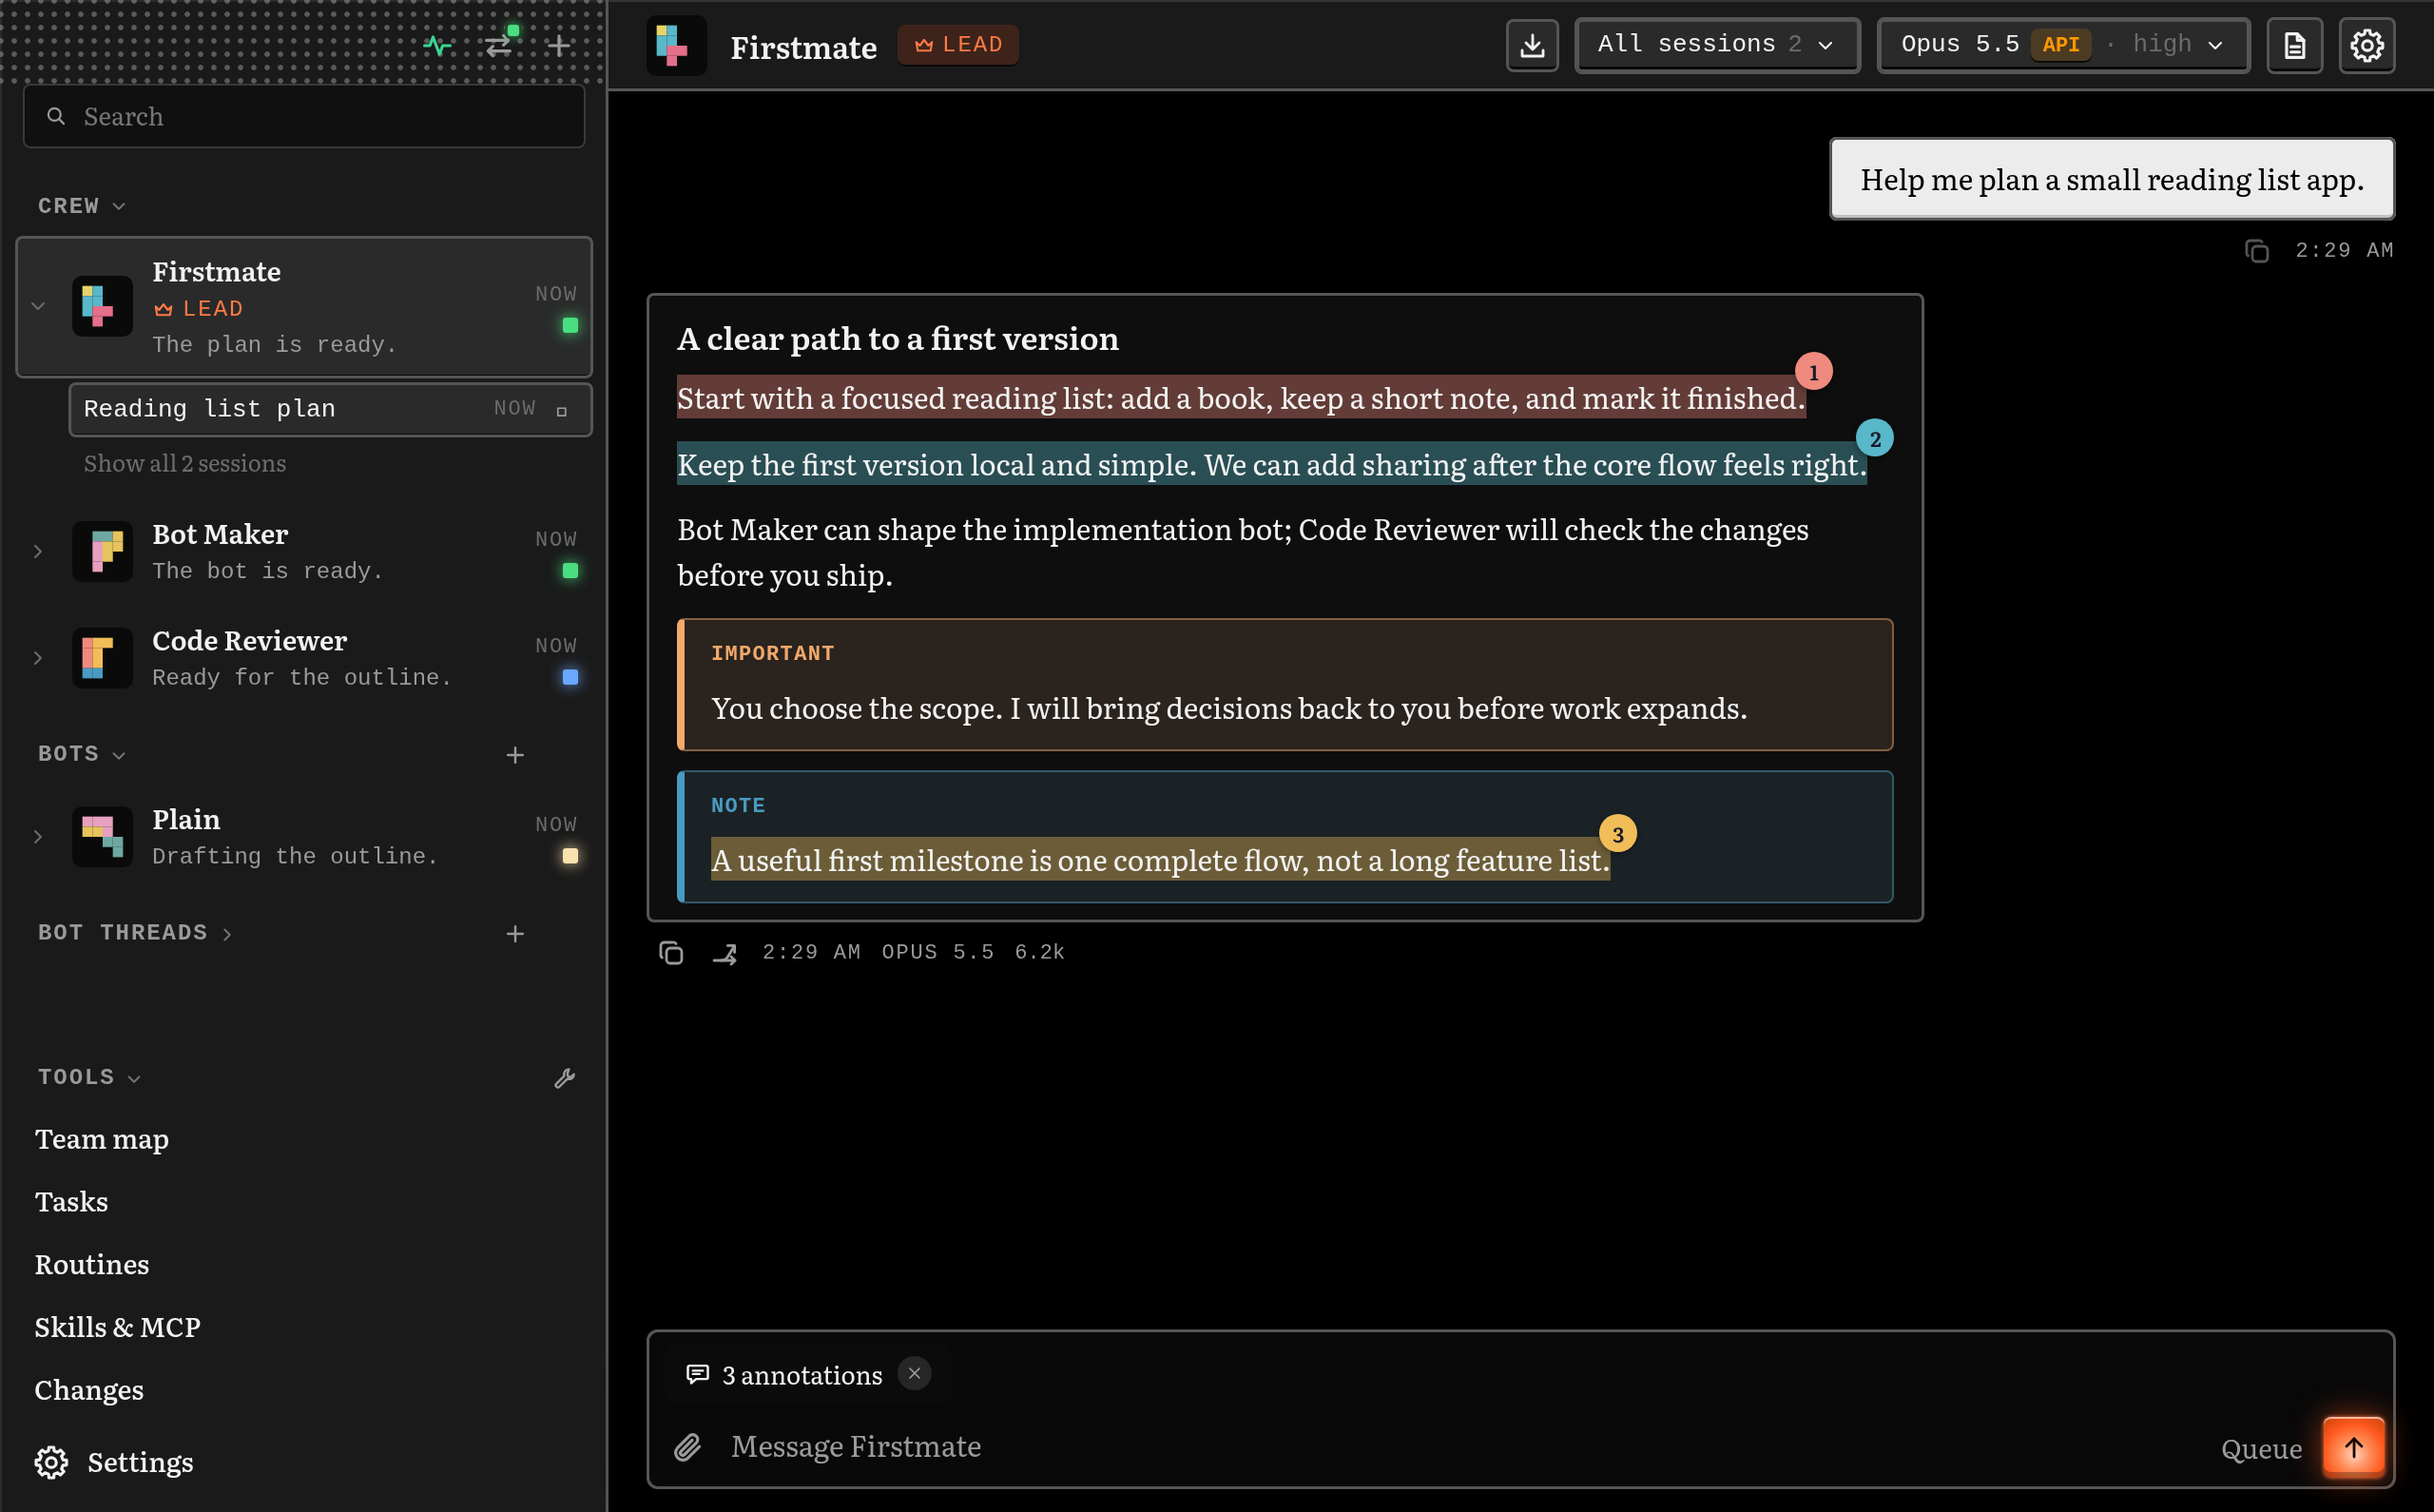
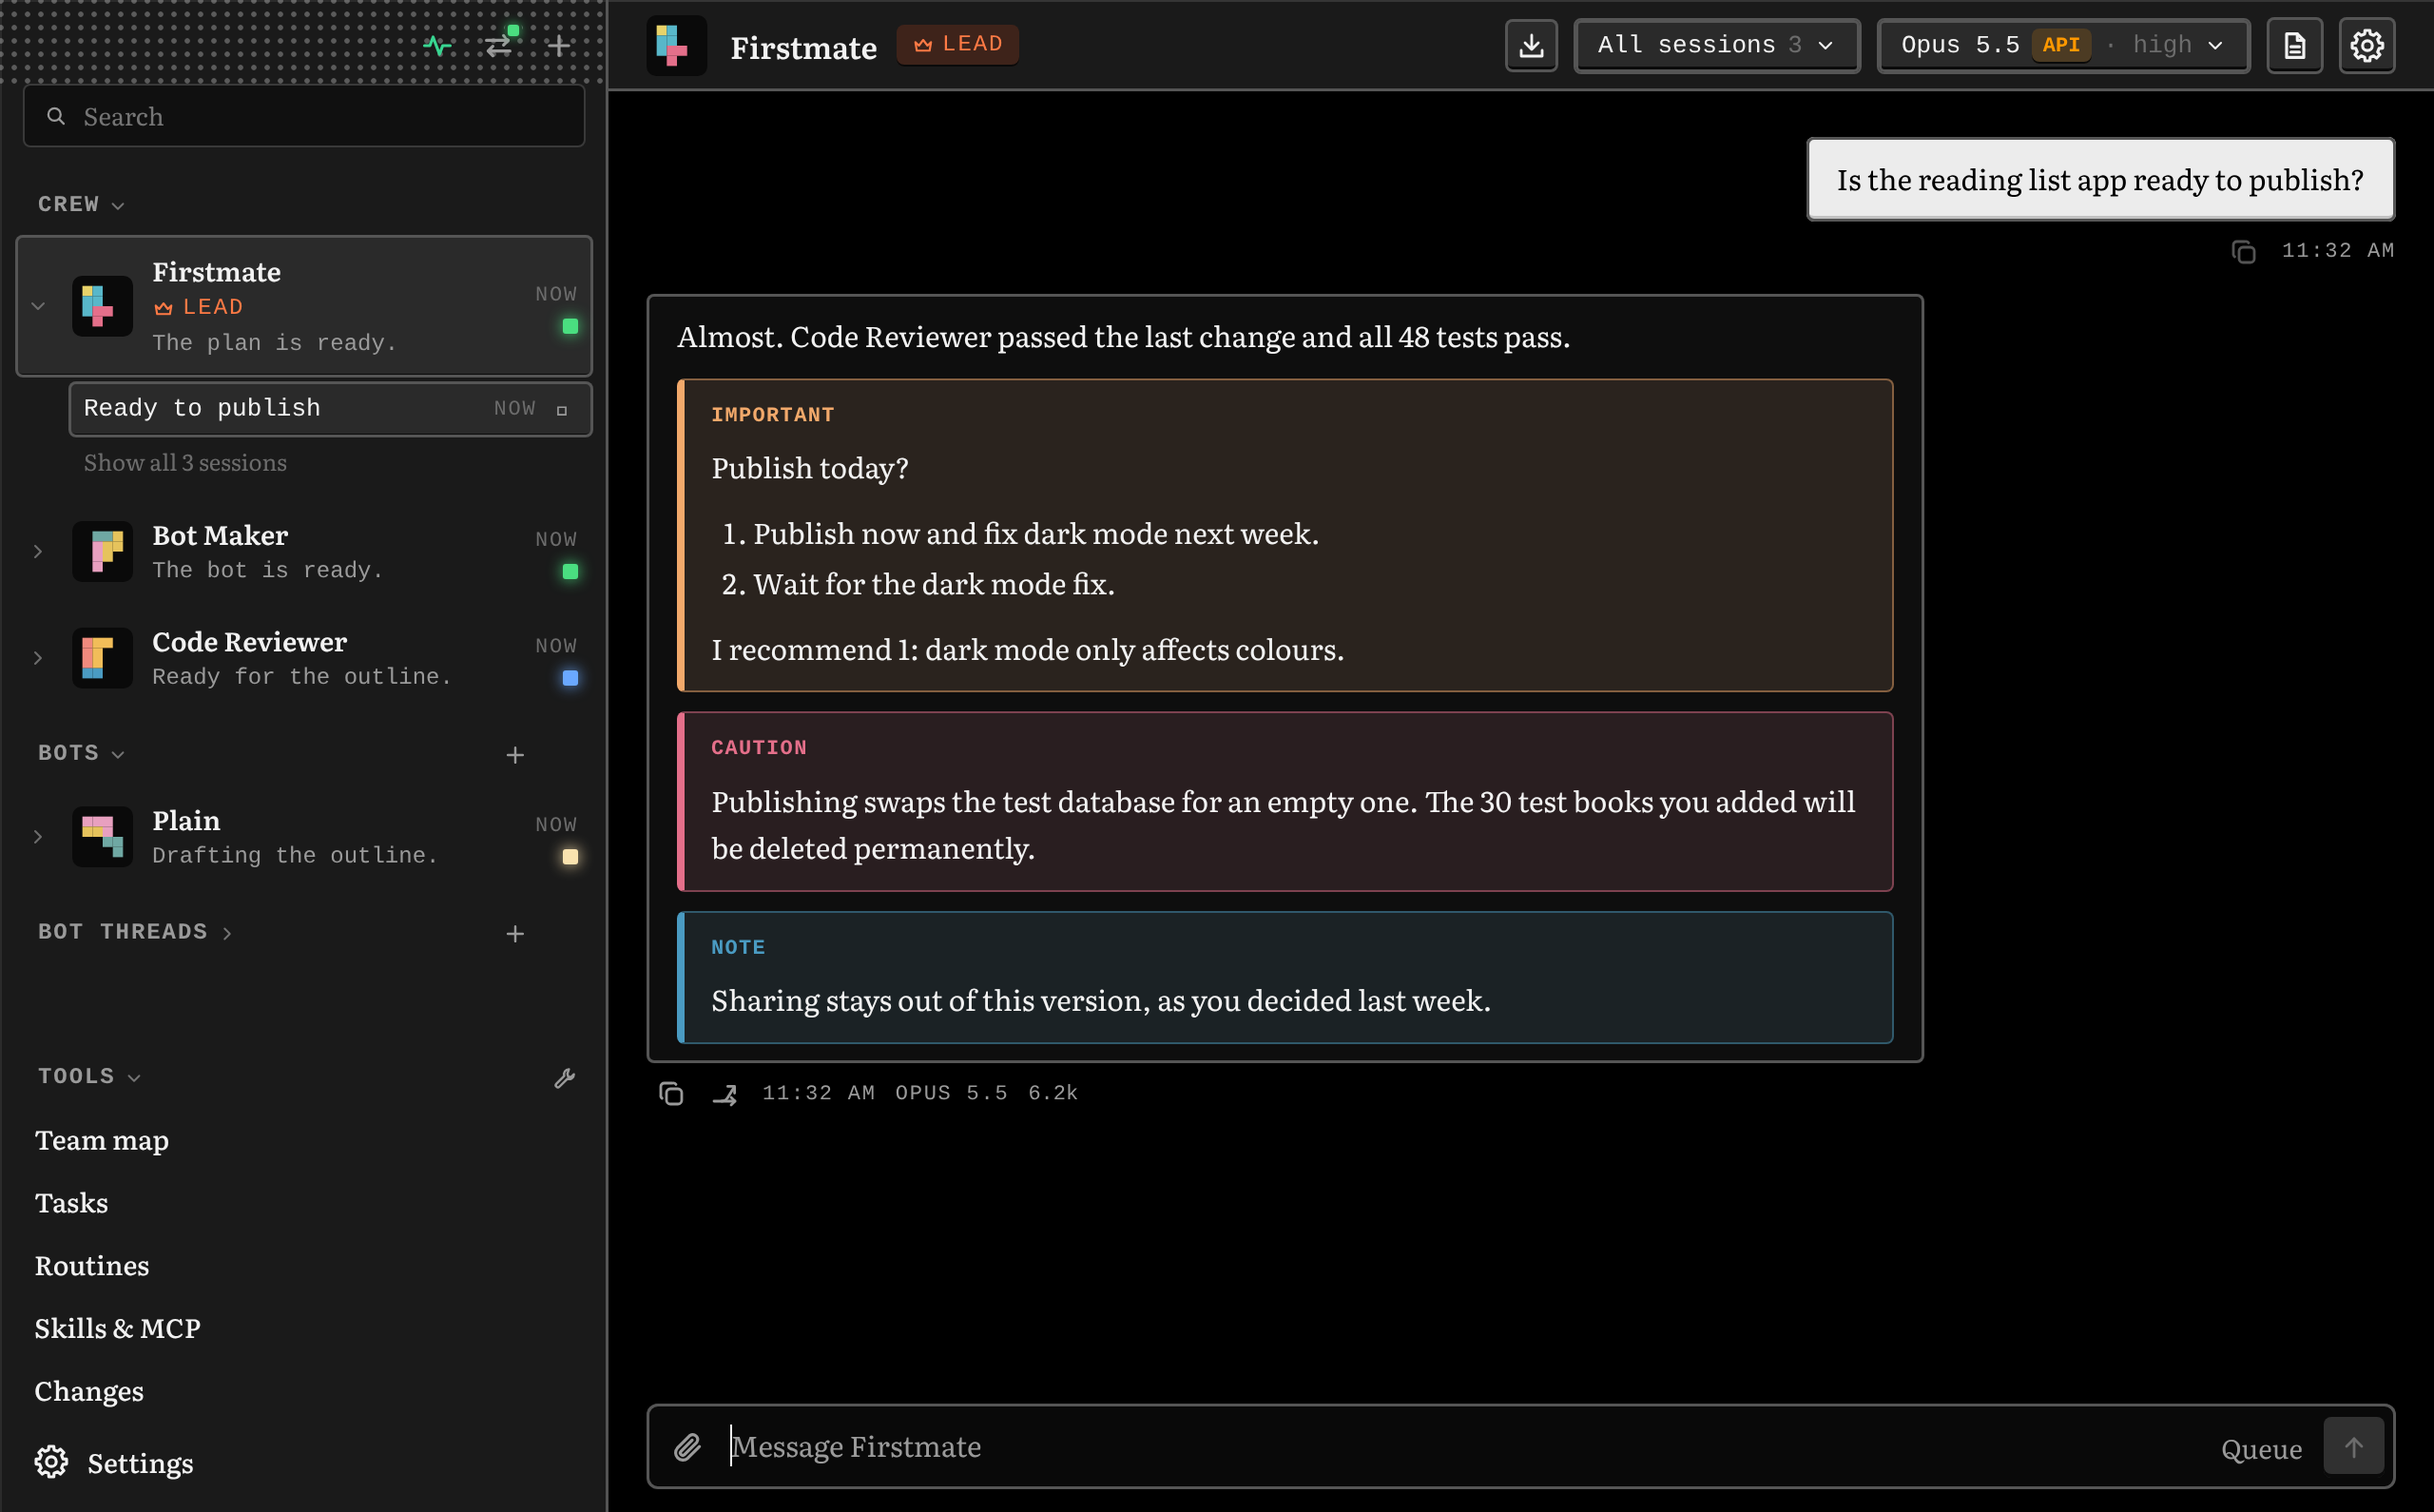
Separate callout and annotation examples; add light-theme preview

diff --git a/screenshots/README.md b/screenshots/README.md
@@ -10,7 +10,8 @@ or proof of a live model run.
 
 | Screenshot | What it shows |
 | --- | --- |
-| [Firstmate conversation](hero.png) | Dark theme, three annotations in different colours, IMPORTANT and NOTE callouts, two green bot lights, one blue and one yellow. |
+| [Firstmate conversation](hero.png) | Dark theme, IMPORTANT, CAUTION and NOTE callouts, two green bot lights, one blue and one yellow. |
+| [Annotations](annotations.png) | Three decisions, three annotations in different colours, the hover list open on the annotations chip, and a typed reply in the message box; no callouts. |
 | [Bot actions](bots-tree-menu.png) | The four-bot sidebar and Firstmate's actions menu. |
 | [Tasks](tasks.png) | Task list, status and kind chips, project and gate controls. |
 | [Task detail](task-detail.png) | An example implementation task's prompt, fields, result and actions. |
@@ -20,4 +21,4 @@ or proof of a live model run.
 | [Model picker](model-picker.png) | Model settings filtered to 5.5 models, with Opus 5.5 selected. |
 | [Thread search](search.png) | Sidebar search for reading, with one result. |
 | [Find in conversation](thread-search.png) | A highlighted match for milestone. |
-| [Light conversation](main-chat-light.png) | The Firstmate conversation in the light theme. |
+| [Light conversation](main-chat-light.png) | Light theme, IMPORTANT, CAUTION and NOTE callouts, two green bot lights, one blue and one yellow. |

diff --git a/README.md b/README.md
@@ -1,6 +1,13 @@
 # Build Your Own Harness
 
-![Firstmate conversation with annotations and callouts](screenshots/hero.png)
+![Firstmate conversation with IMPORTANT, CAUTION and NOTE callouts](screenshots/hero.png)
+
+<details>
+<summary>See it in the light theme</summary>
+
+![Firstmate conversation in the light theme](screenshots/main-chat-light.png)
+
+</details>
 
 ## Vision
 
